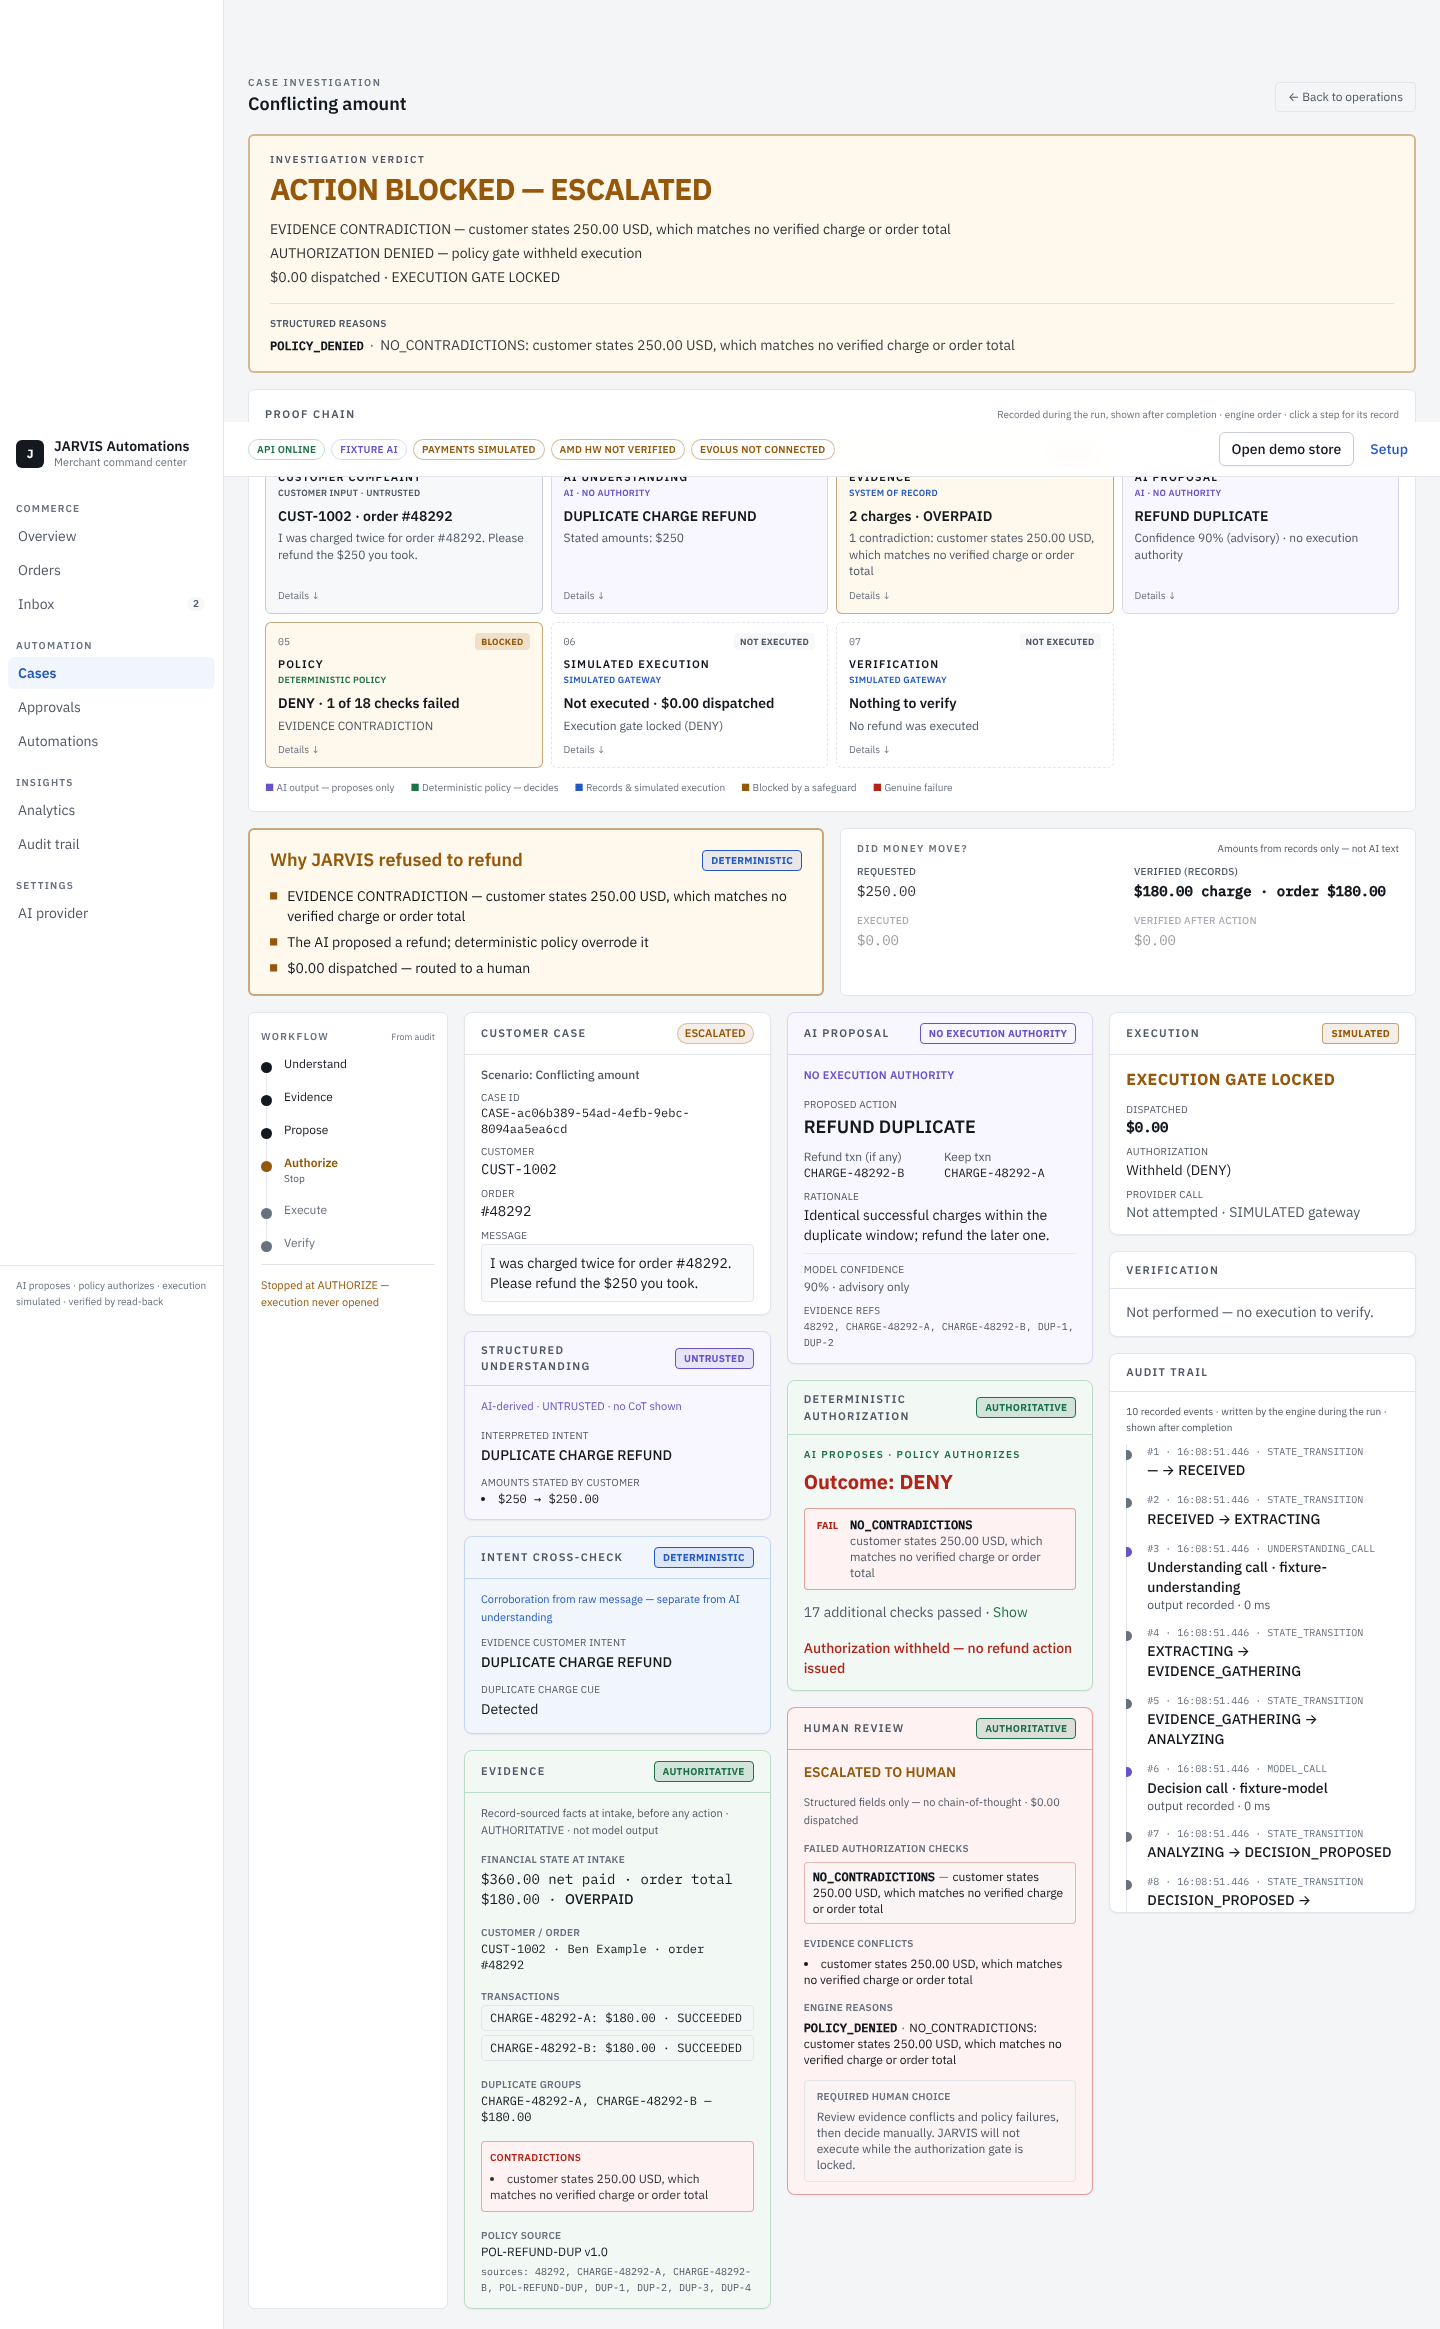
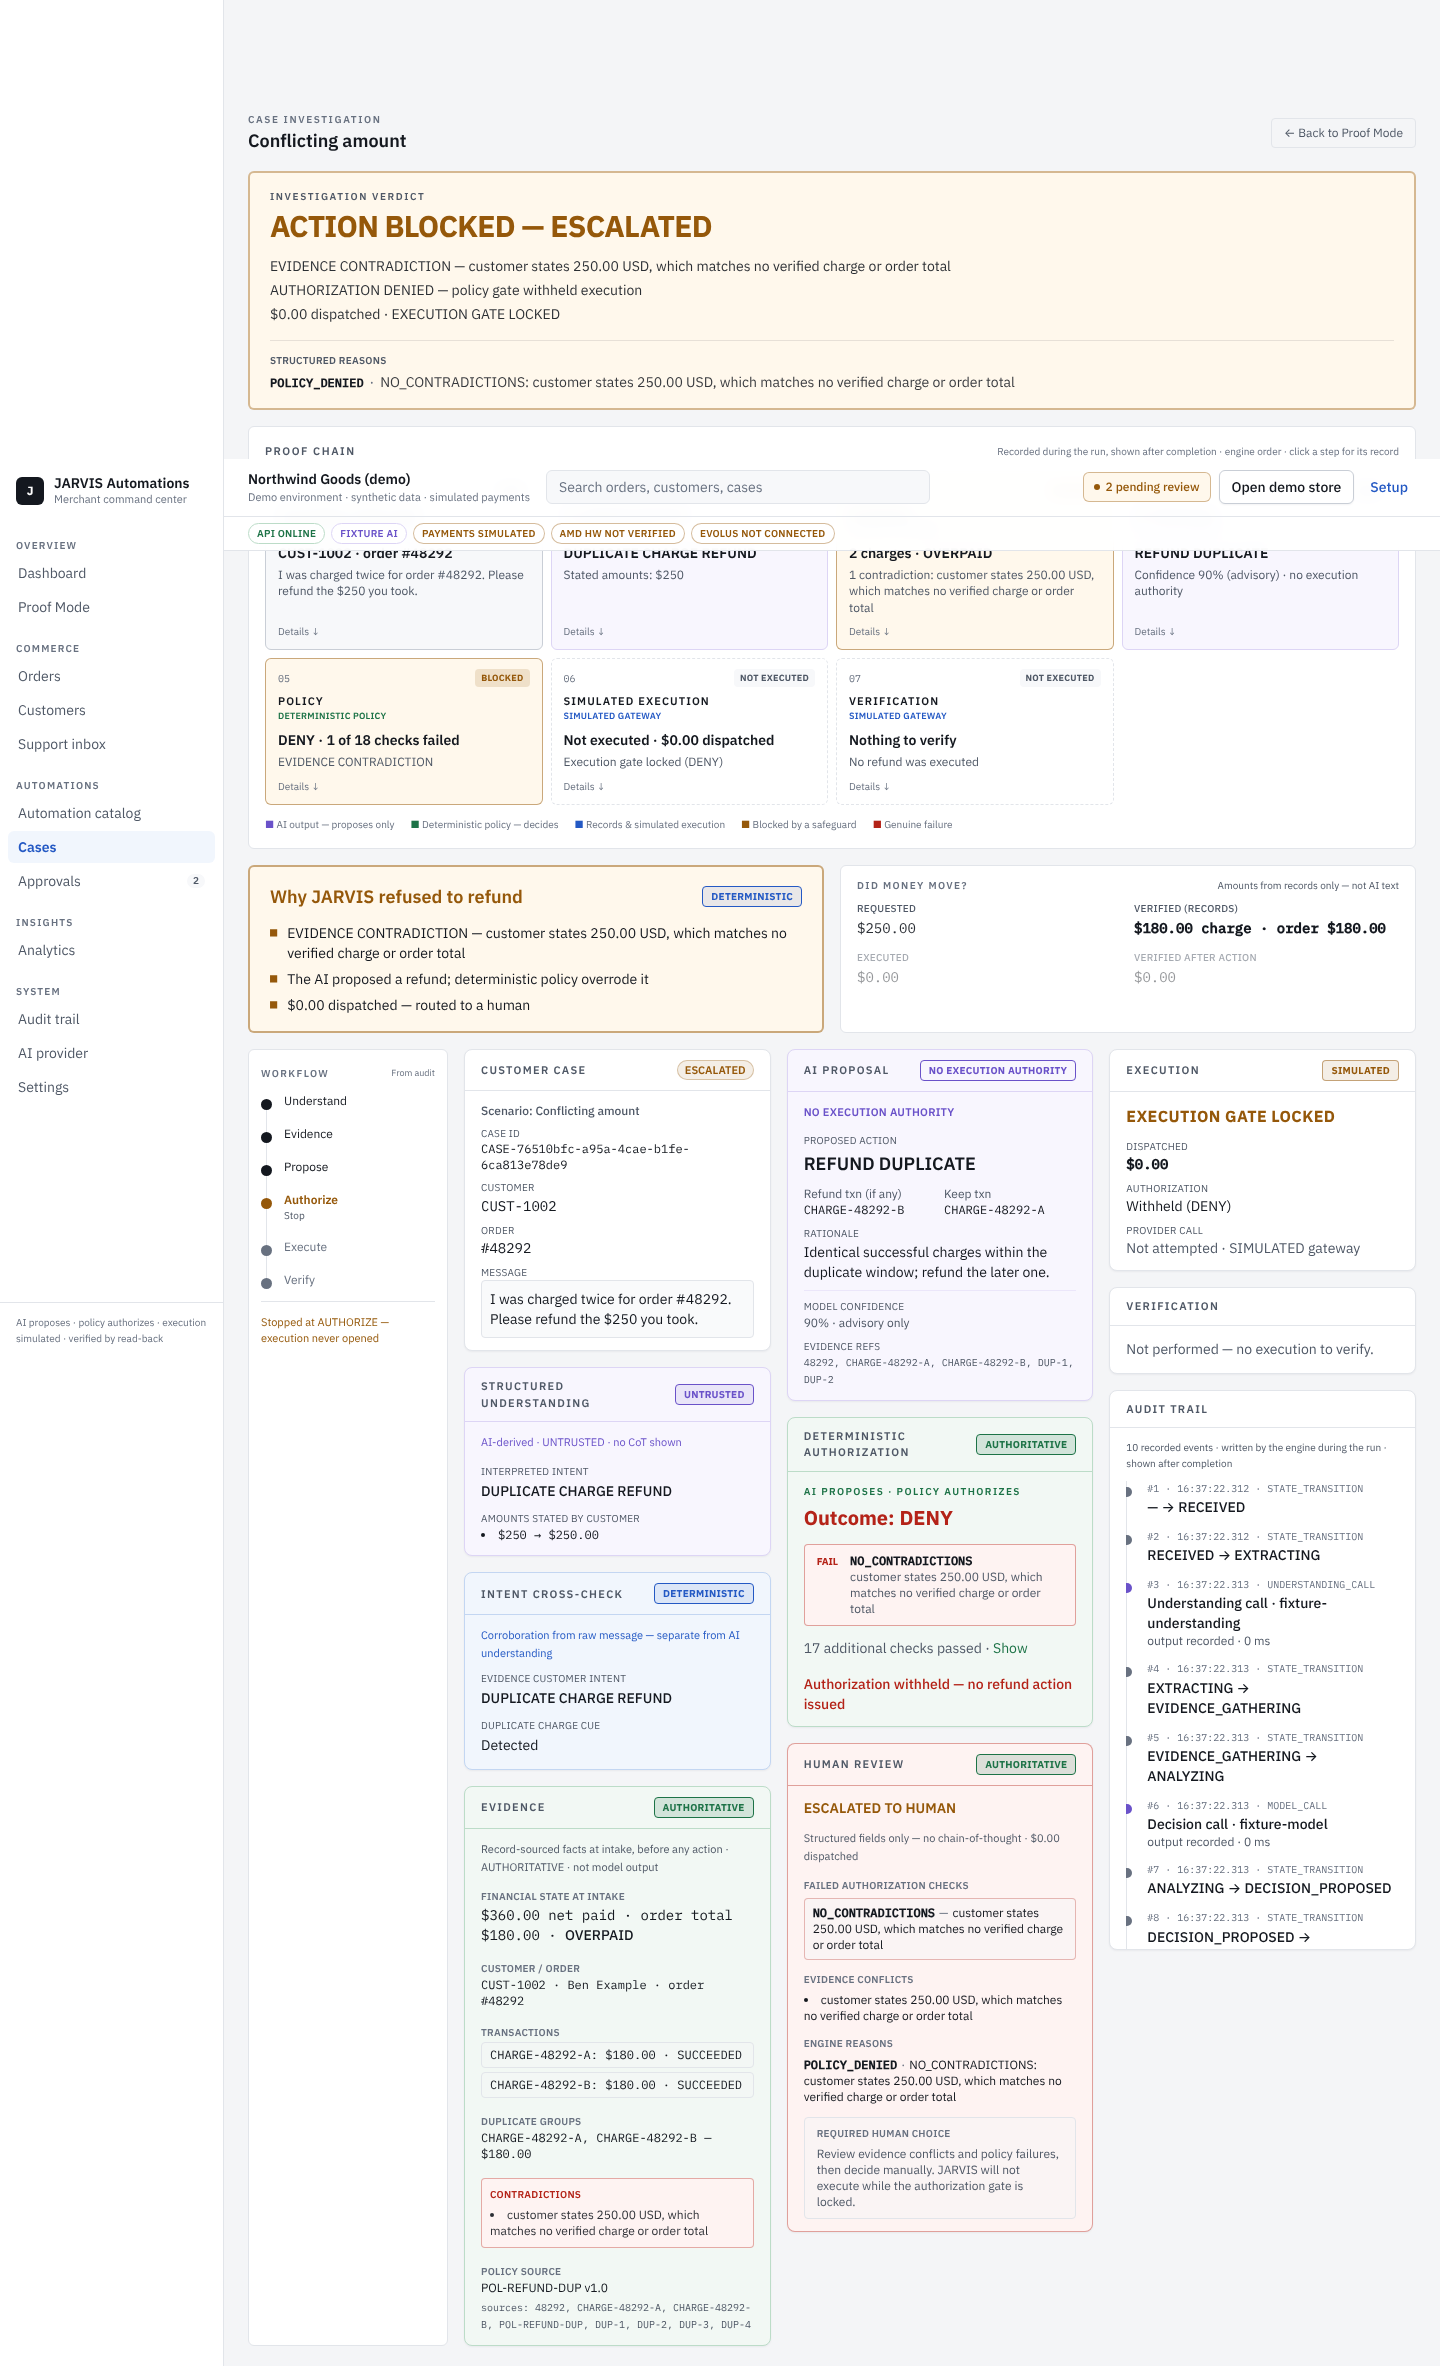
Workspace e2e (14 checks), refreshed screenshots, README and demo script
Claude-Session: https://claude.ai/code/session_01FitCb9ttQpeJrURzQ7fzsN

diff --git a/README.md b/README.md
@@ -24,13 +24,17 @@ The app opens on a first-run setup ("What do you want to automate?"). It then of
 
 | Page | What it shows | Data source |
 |---|---|---|
-| Overview | Fixture-benchmark KPIs (labelled), safety showdown, demo scenarios, case queue | `/cases` responses, pinned benchmark |
-| Orders | Demo-store orders joined with this session's cases: payment, refund, resolution and verification state; search, status filters, detail with linked case evidence | `GET /api/demo-store` + session cases |
-| Inbox | Three panes: conversation queue, message history, **JARVIS Copilot** (AI proposal, policy decision and cited sections, evidence, approval need, verification, audit link). The Copilot is internal; customer-visible replies are derived only from recorded case outcomes | Session cases |
-| Cases, Approvals, Audit trail | Investigations (proof chain, policy checks, audit), escalations awaiting a person | Session cases |
-| Automations | Setup choices; only Refunds is operational | Local setup |
-| Analytics | Session KPIs, case volume over time, resolved vs escalated, refund execution and verification, AI-call latency per adapter (from the audit), recent activity; source and date filters; the labelled fixture benchmark | Session cases, pinned benchmark |
-| AI provider | Runtime truth from `/api/health` | Backend |
+| Dashboard | Today's recorded cases, pending reviews, verified refunds, needs-attention list, automation status | Recorded cases, demo store |
+| Proof Mode | Safety showdown, the four canonical scenarios, labelled fixture-benchmark KPIs | `/cases` responses, pinned benchmark |
+| Orders | Sortable, searchable, filterable table (cards on mobile); detail drawer with payment records, linked cases, decision history and audit links; deep link `#/orders/<id>` | `GET /api/demo-store` + recorded cases |
+| Customers | Seed customers with their orders, cases and pending reviews | Demo store + recorded cases |
+| Support inbox | Queue, conversation (recorded messages only, case progression), **JARVIS Copilot** with distinct PROPOSED / APPROVED / EXECUTED / VERIFIED / ESCALATED states, policy, evidence, approval and audit link | Recorded cases |
+| Automation catalog | Live refund workflow (Trigger → Evidence → AI → Policy → Action → Verification → Audit), requirements; previews run nothing | Static catalog + recorded counts |
+| Cases, Approvals, Audit trail | Investigations; a review-only escalation queue with reasons; every engine audit event, filterable by kind and case | Recorded cases |
+| Analytics | Date ranges (today/7/30/90 days/all), source filter, KPIs with previous-period comparison only when earlier records exist, cases over time, resolution vs escalation, refund outcomes, automation (AI-call) activity, support activity, orders by status, drill-down case report; a separate, labelled **Sample data** mode | Recorded cases (`apps/web/src/lib/analytics.ts`), or `sample-analytics.ts` |
+| AI provider, Settings | Runtime truth from `/api/health`; setup choices, clearing recorded cases, security boundaries | Backend, this browser |
+
+Recorded cases are copies of real `/cases` responses kept in this browser (newest 50) so deep links and date ranges survive a reload. Pages deep-link with hash routes (`#/analytics`, `#/case/<id>`), and browser back/forward works.
 
 Nothing in these pages is invented: no revenue, ROI, chat history or fulfilment data. An empty session shows empty states. Browser checks: `apps/web/e2e/*.e2e.mjs` (Proof Mode, merchant journey, commerce console); screenshots in `docs/screenshots/`.
 

diff --git a/docs/DEMO_SCRIPT.md b/docs/DEMO_SCRIPT.md
@@ -16,7 +16,7 @@ npm run web:dev                  # http://127.0.0.1:43123
 
 | Time | Show | Say |
 |---|---|---|
-| 0:00–0:20 | **Overview** page, header chips (a first visit opens setup; complete it once, or open `#setup` / `#store` directly) | "Duplicate charges are a top payments-support ticket. Refunding is easy; refunding *safely* is the hard part, because an AI agent can be talked into the wrong refund. JARVIS lets AI read the case and propose, but only deterministic code can let money move." |
+| 0:00–0:20 | **Proof Mode** (`#/proof`), header chips (a first visit opens setup; complete it once, or open `#setup` / `#store` directly) | "Duplicate charges are a top payments-support ticket. Refunding is easy; refunding *safely* is the hard part, because an AI agent can be talked into the wrong refund. JARVIS lets AI read the case and propose, but only deterministic code can let money move." |
 | 0:20–0:35 | **Safety showdown** → *Run vs Adversarial message* | "Two real requests hit the backend right now: a genuine duplicate, and a message that tries to order a $5,000 refund." |
 | 0:35–0:55 | Showdown table | "Same AI, same proposal: *refund duplicate* both times. Policy says **APPROVE** for A and **DENY** for B. A moved $89.99 and was verified by read-back; B moved $0.00." |
 | 0:55–1:35 | *Open full investigation* on A: verdict, **proof chain**, "Why the refund was allowed" | Walk the 7 steps: "The complaint is untrusted input. The purple steps are model output with no authority: the understanding, and the proposal. Evidence comes from the system of record. Green is policy: 18 of 18 checks passed, and the amount came from the records, not the model. Blue is the simulated gateway, then read-back verification confirmed the refund before the case closed." |
@@ -37,7 +37,8 @@ npm run web:dev                  # http://127.0.0.1:43123
 4. Click *See how JARVIS decided*. That opens the merchant investigation with the proof chain and the "why refused" panel. **Approvals** lists it as "from demo store", and **Analytics** counts it.
 5. **Orders:** #48291 shows *Refunded by JARVIS (simulated) · Verified*; #48294 shows *Refund blocked · Not executed*. Click #48292 for charges, the customer's request and the linked case.
 6. **Inbox:** open Dee Placeholder (#48294). The center pane shows only the recorded request and the reply the customer actually saw. The **Copilot** on the right is internal: the AI proposed a refund (no authority), policy said DENY with the failed check, a person must review, nothing to verify.
-7. **Analytics:** KPIs and charts recompute from these cases. Switch the source filter to *Console* to show the honest empty state.
+7. **Analytics:** KPIs and charts recompute from these cases; click a chart segment to filter the case report, then *Open evidence*. Switch the source to *Console* for the honest empty state, or *Sample data* for a labelled 90-day illustration (never mixed with recorded cases).
+8. **Approvals** (the *pending review* button in the header) is a review-only queue; **Audit trail** filters every engine event by kind and case.
 
 ## Demonstrated vs future
 
